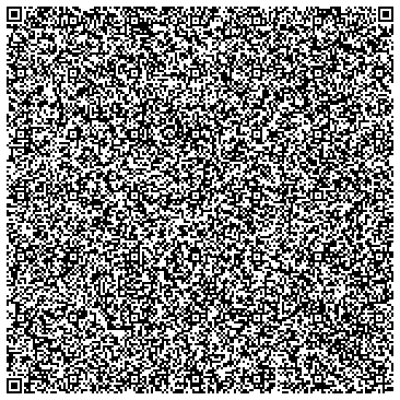
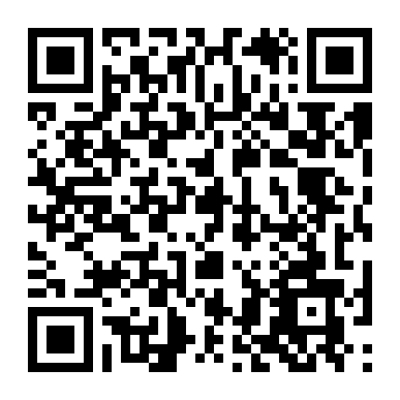
updated QR code

diff --git a/src/CHANGELOG.md b/src/CHANGELOG.md
@@ -3,3 +3,5 @@
 - added syncPreferences to BleServer to sync saved preferences with Blynk onConnect
 - added "brake light" detection when current <-4.0A (regen)
 - read some more props from VESC ("totalCurrentIn" and "pidPosition")
+
+- updated Blynk QR-Code
